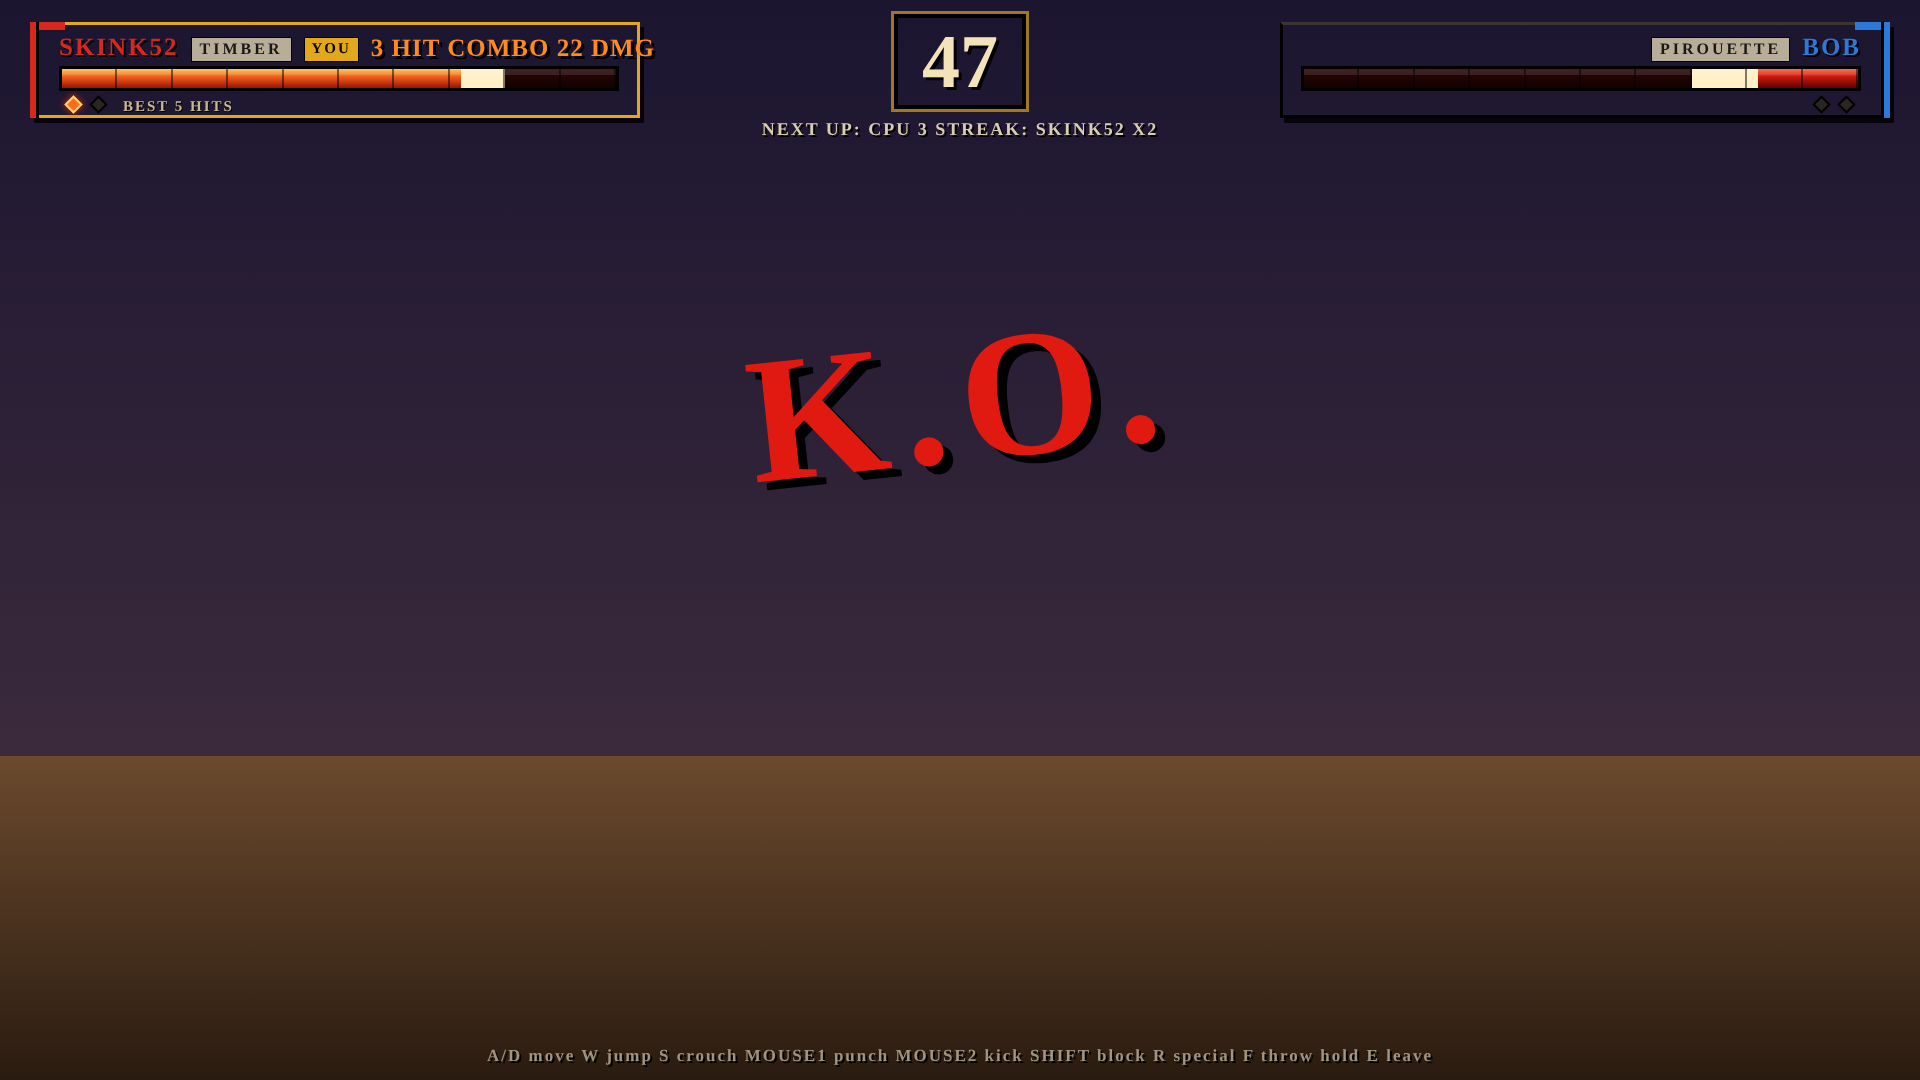
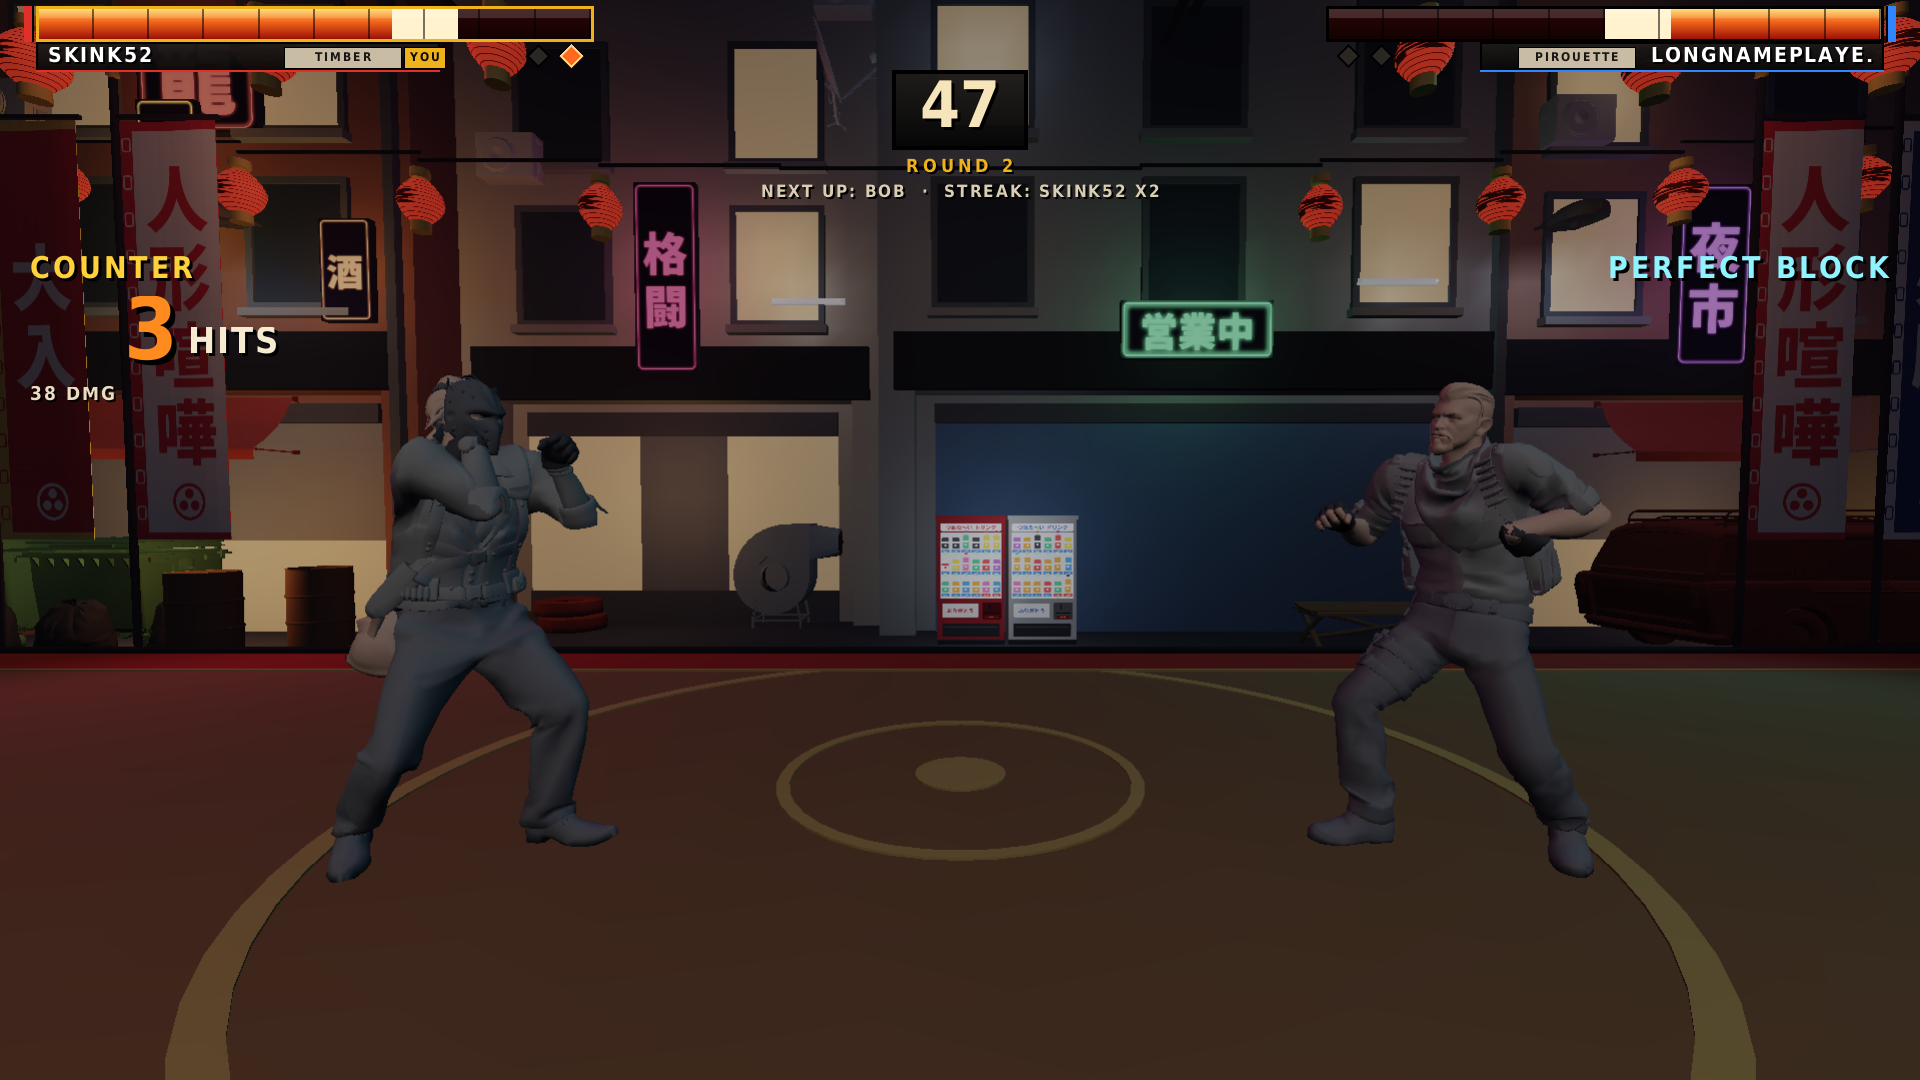
Previews: arena, HUD states, fighters and their moves
Claude-Session: https://claude.ai/code/session_01CeJj6rWV63L5ezCMzkKR7f

diff --git a/README.md b/README.md
@@ -12,6 +12,11 @@ throws, perfect blocks and a custom Panorama HUD.
 Everything here is original work: the name, fighters, moves, stage art and rules. The genre conventions it uses
 (health bars, rounds, specials, combos) belong to nobody.
 
+![The fight camera with the HUD (offline render: flat shading, not CS2's lighting)](preview/hud_fight.png)
+
+More in `preview/`: the arena from several cameras, the HUD in each state (and with CS2's own HUD places
+marked), every fighter's moves at the moment of contact.
+
 ## How it fits together
 
 - **Animation is the source of truth.** Every move and state is a 3D clip built on the CS2 agent skeleton
